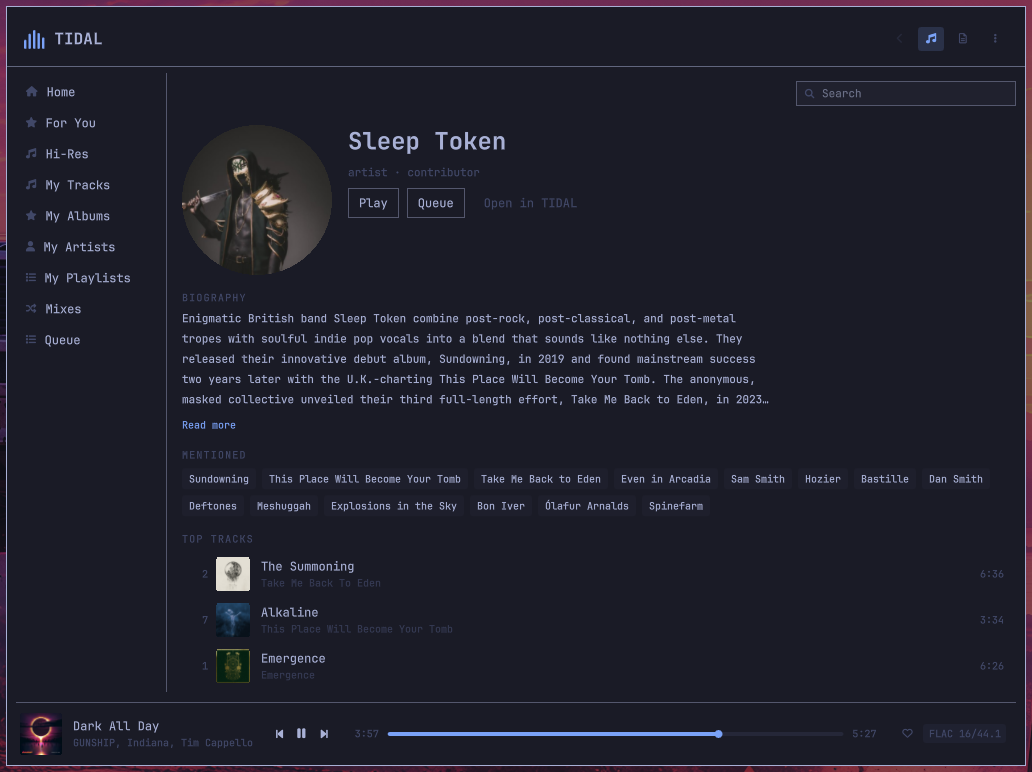
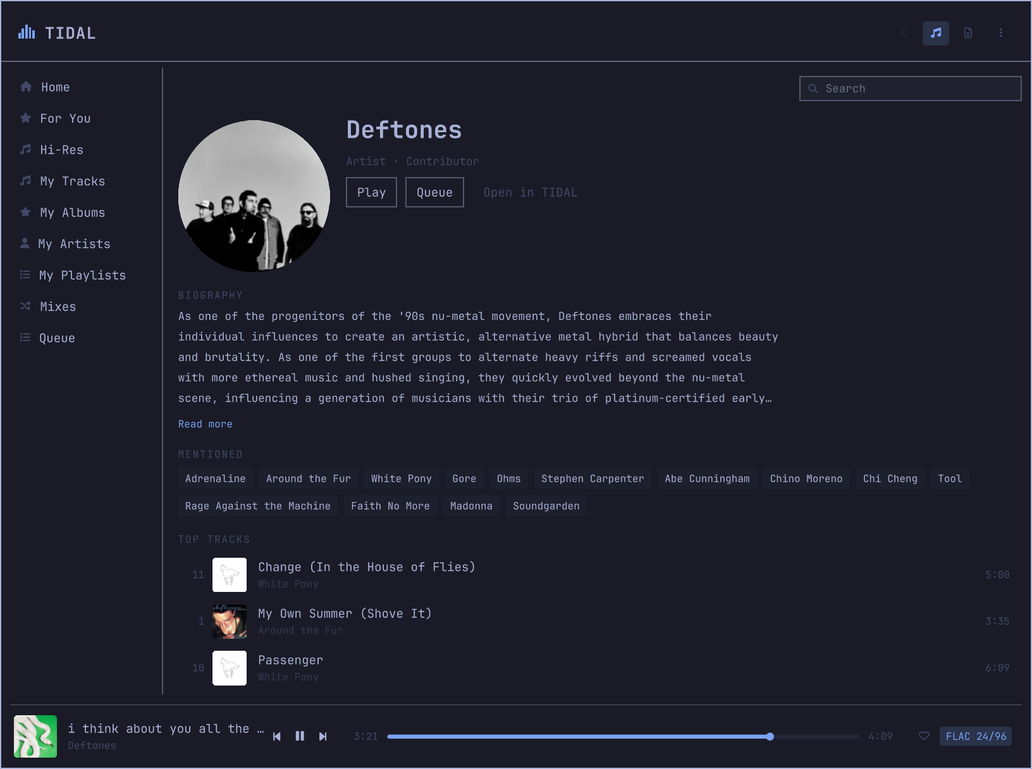
0.8.0 — fidelity pass, and docs to match
Clear on a detail page pointed at a queue you could no longer see: a detail
page layers over the list you came from, and `currentUri` still named that
list.

Screenshots: the player shot was the old search -- twelve tracks, no artists,
no albums, no durations -- and the artist shot was taken before detail pages
learned to open at the top. Both re-taken, plus two new ones for the album page
and the now-playing info face. Every shipped image re-scanned with OCR for
account details; none carry any, and there is still no settings screenshot in
the repo.

README: live search and the artists-first ordering, running times on rows, the
album page's release date, copyright line and artist link, and the info face's
track list and biography fallback.

Claude-Session: https://claude.ai/code/session_01UGksX6hwkEdP14s6fTBii7

diff --git a/qml/views/PlayerView.qml b/qml/views/PlayerView.qml
@@ -567,7 +567,12 @@ Item {
         anchors.right: searchField.left
         anchors.rightMargin: Style.space(14)
         anchors.verticalCenter: parent.verticalCenter
+        // A detail page is layered over whatever list you came from, and
+        // `currentUri` still names that list -- so opening an album from the
+        // queue left a "Clear" over the album, pointed at a queue you could
+        // no longer see.
         visible: root.currentUri === "queue" && root.rows.length > 0
+                 && root.detailUri === ""
         text: "Clear"
         color: clearHover.containsMouse ? Color.urgent : Color.muted
         font.family: root.fontFamily

diff --git a/CLAUDE.md b/CLAUDE.md
@@ -247,12 +247,29 @@ The visual design pass is done and drove the rest of it: one motion vocabulary,
 one artwork tile, one playhead, one grid. Screenshots in `docs/screenshots/` are
 current.
 
+0.8 was a fidelity pass against Apple Music and the native TIDAL client:
+
+- The sleeve's hover lighting is drawn with `QtQuick.Shapes`, so the shading has
+  a real direction and no banding, and only the one sleeve you are listening to
+  leans -- shelf tiles are static.
+- Search answers while you type (320ms debounce) and orders artists, then
+  albums, then tracks. Every track row carries its running time.
+- An album with no editorial review -- four in five of them -- falls back to the
+  artist's biography rather than showing an empty page, on both the album page
+  and the now-playing info face. The info face also lists the album's tracks.
+- Detail pages open at the top rather than at the last page's scroll position.
+
 Next, in the order that makes sense:
 
 1. **A settings surface** for the plugin's own options -- sign in and out,
    which account is signed in, and the widget settings that currently live only
    in the bar's schema.
-2. **Not TIDAL Connect.** Checked against tidalapi 0.8.11: it exposes nothing
+2. **A grid mode for the library.** My Albums and My Artists are lists; both
+   native clients default to a wall of covers. The pieces exist (`ArtCard`, the
+   Home shelves, the artist discography grid) but the keyboard model would need
+   two dimensions, and that model has been broken twice already -- so it is a
+   deliberate next step rather than a quick one.
+3. **Not TIDAL Connect.** Checked against tidalapi 0.8.11: it exposes nothing
    for it. The only `device` in the whole package is `deviceType=BROWSER` on
    page requests and the OAuth device-code login. Connect is a device-side
    protocol that TIDAL's own clients speak to targets found on the network, and

diff --git a/README.md b/README.md
@@ -123,13 +123,21 @@ without leaving the page.
 Sidebar over the whole TIDAL tree — Home, For You, **Hi-Res**, your tracks,
 albums, artists, playlists and mixes — with search, drill-down, and a queue.
 
-Every row carries its artwork, its artist and its album, the way Apple Music and
-TIDAL's own client do. Library rows that arrive with nothing but a name have the
-rest filled in behind them, and the playing row is marked on its sleeve.
+Every row carries its artwork, its artist and its album, and its running time,
+the way Apple Music and TIDAL's own client do. Library rows that arrive with
+nothing but a name have the rest filled in behind them, and the playing row is
+marked on its sleeve.
+
+**Search answers while you type**, a third of a second after you stop — one
+request for a word, not one per letter — and answers with people first: artists,
+then records, then songs. Searching for a band used to bury the band under a
+dozen of their own tracks. `Enter` commits and hands the keyboard to the
+results, so the next arrow key moves through them.
 
 ### Artist and album pages
 
 ![An artist page](docs/screenshots/artist.png)
+![An album page](docs/screenshots/album.png)
 
 Photography, biography, editorial reviews, credits, top tracks, discography and
 similar artists. TIDAL's inline markup is cleaned up and the artists it
@@ -156,6 +164,8 @@ larger, brighter and unmistakable among the rest, and clicking any line seeks to
 it. A long instrumental is marked with dots that fill as it runs down, so a solo
 reads as the song still playing rather than as a sheet that has stuck; the intro
 before the first line is marked the same way.
+
+![The record](docs/screenshots/info.png)
 
 `I` gives you the record instead: the album, its artist, the year, the running
 time, the exact release date and the label off the back of the sleeve, what is
